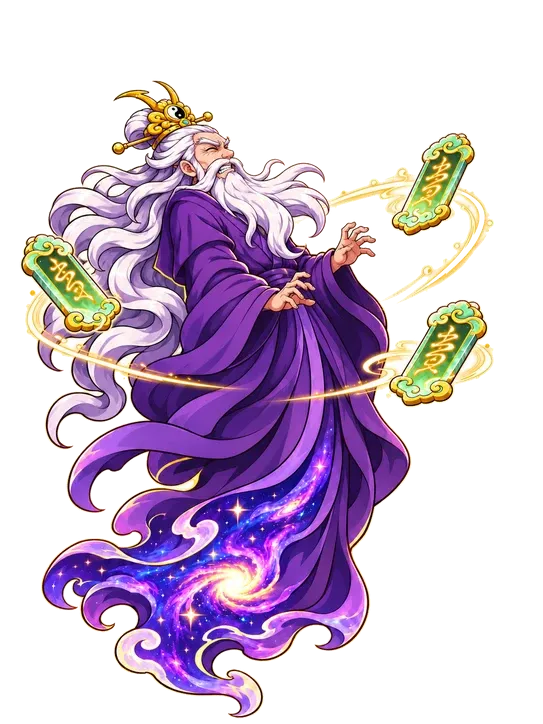
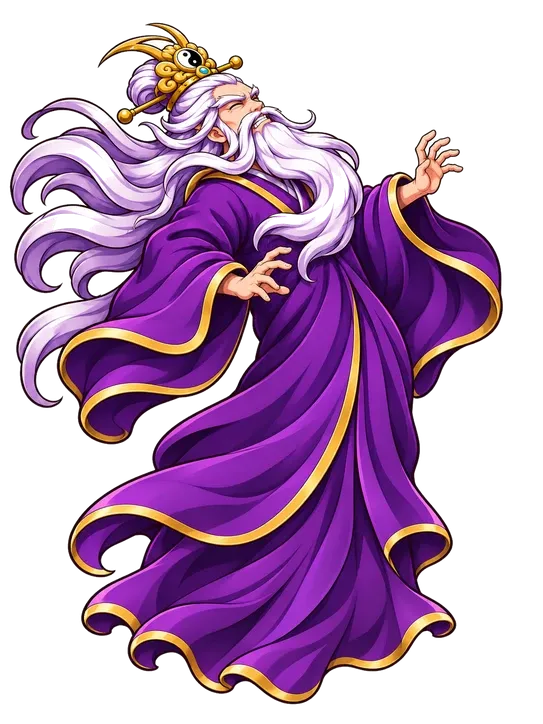
Phap Tuong thanh man mo dau; bo vuc rieng UR, chi con Thai Cuc Do (Hong Quan/du Tam Thanh) va Phan Tu Vuc; Hong Quan tach lop: ngan ha ve tay duoi chan + Ngoc Diep bay quanh

diff --git a/js/main.js b/js/main.js
@@ -13,7 +13,7 @@ const SLOTS_BACK = [[160, 310], [176, 192], [176, 428]];
 const SLOTS_FRONT = [[300, 262], [300, 390]];
 
 const $ = s => document.querySelector(s);
-const ui = $('#ui'), cv = $('#game'), ctx = cv.getContext('2d');
+const ui = $('#ui'), cv = $('#game'); let ctx = cv.getContext('2d');   // let: urLayers mượn tạm để vẽ lên canvas khác
 const rand = (a, b) => a + Math.random() * (b - a);
 const clamp = (v, a, b) => (v < a ? a : v > b ? b : v);
 const dist = (a, b) => Math.hypot(a.x - b.x, a.y - b.y);
@@ -939,7 +939,7 @@ function cast(u, w) {
   const sk = u.d[w];
   u.mp -= w === 'ult' ? 60 : 30;
   if (w === 'ult') u.cdU = 12; else u.cdS = 6;   // chiêu nhỏ 6 giây/lần
-  if (w === 'ult' && u.side === 'h' && isUR(u.id) && !u.clone && B) { castPhapTuong(u); if (u.id !== 'hongquan' && !(B.dom && B.dom.id === 'tamthanh') && (!B.dom || B.dom.id !== u.id)) domSet(u.id); }
+  if (w === 'ult' && u.side === 'h' && isUR(u.id) && !u.clone && B) { castPhapTuong(u); }   // vực riêng từng UR đã bỏ: chỉ còn vực nhóm (domUpdate)
   const sk_ = hasSkel(u.id);
   u.castDur = sk_ ? (w === 'ult' ? 1.0 : 0.6) : POSES[u.id] ? (w === 'ult' ? 0.8 : 0.4) : 0.35;   // dáng vẽ: giữ dáng tuyệt kỹ đủ lâu để thấy u.castT = u.castDur; u.castUlt = w === 'ult'; u.atkAnim = sk_ ? -1 : 0;
   const tgt = findTarget(u) || nearestEnemy(u, 400);
@@ -1895,7 +1895,7 @@ function poseFor(u) {
   }
   return null;
 }
-const HFIX = { kimgiac: 1.1, vanthu: 1.2, thaisu: 1.2, hoangphiho: 1.2, phohien: 1.25, thailaoquan: 1.22, giaochu: 1.0, nguyenthuy: 1.22, hongquan: 1.25 };   // UR concept A (Thánh Toạ) to hơn để uy   // bù dáng khom; tướng cưỡi thú cho cụm to hơn để người cưỡi không bị bé (chiều cao thân đo bằng tools/remeasure_h.py)
+const HFIX = { kimgiac: 1.1, vanthu: 1.2, thaisu: 1.2, hoangphiho: 1.2, phohien: 1.25, thailaoquan: 1.22, giaochu: 1.0, nguyenthuy: 1.22, hongquan: 1.0 };   // UR concept A (Thánh Toạ) to hơn để uy   // bù dáng khom; tướng cưỡi thú cho cụm to hơn để người cưỡi không bị bé (chiều cao thân đo bằng tools/remeasure_h.py)
 const _bright = new WeakMap();
 function brightImg(img) {   // bản sáng của ảnh dáng (tạo 1 lần): nháy trắng khi trúng đòn mà không dùng ctx.filter mỗi khung
   let c = _bright.get(img); if (c) return c;
@@ -1915,10 +1915,42 @@ function drawPose(u, name, t, h, alpha) {
   else if (name === 'ult') { sy = 1 + 0.012 * Math.sin(t * 9); }
   else if (name.startsWith('idle')) { sy = 1 + 0.014 * Math.sin(t * 2.6); sx = 1 - 0.006 * Math.sin(t * 2.6); }   // thở
   else if (name === 'hit') { const e = 1 - eo(Math.min(1, t)); ox = -11 * e; rot = -0.06 * e; sy = 1 - 0.03 * e; }
+  const LY = UR_LAYERS[u.id], hb = D.H * k * 0.5;   // hb: chiều cao thân trên màn hình
+  if (LY) urLayers(ctx, LY, 0, 0, hb, alpha, -1);
   ctx.save(); ctx.globalAlpha *= alpha; ctx.translate(ox, 0); ctx.rotate(rot); ctx.scale(sx, sy);
   ctx.drawImage(u.hurt > 0 ? brightImg(img) : img, -gx, -gy, img.width * k, img.height * k);
   ctx.filter = 'none'; ctx.restore();
+  if (LY) urLayers(ctx, LY, 0, 0, hb, alpha, 1);
   return true;
+}
+// UR tách lớp: nhân vật vẽ sạch + lớp vẽ tay chuyển động riêng (nền dưới chân chạy vòng, pháp bảo bay quanh người)
+//   ground: sheet art/sigfx (vòng lặp) đặt dưới chân; orbit: ảnh art/ultc bay vòng elip quanh thân (nửa sau vẽ sau lưng, mờ hơn)
+const UR_LAYERS = {
+  hongquan: { ground: { sheet: 'hq_galaxy', w: 1.3, y: 0.0, spd: 0.18, a: 0.95 }, orbit: { img: 'hq_tablet', n: 3, rx: 0.62, ry: 0.12, y: 0.62, size: 0.34, spd: 0.45 } },
+};
+function urLayers(g, L, x, y, hb, alpha, side) {   // side -1: lớp sau thân; 1: lớp trước thân
+  const T = performance.now() / 1000, c0 = ctx; ctx = g;   // sfxDraw/sigImg vẽ lên ctx toàn cục -> mượn tạm
+  try {
+    if (side < 0 && L.ground) { sfxImg(L.ground.sheet); sfxDraw(L.ground.sheet, T * L.ground.spd, x, y + hb * L.ground.y, hb * L.ground.w, { loop: 1, a: alpha * L.ground.a }); }
+    const O = L.orbit; if (O) { const im = ucImg(O.img); if (im) for (let i = 0; i < O.n; i++) {
+      const a = T * O.spd + i * TAU / O.n, front = Math.sin(a) > 0; if ((side > 0) !== front) continue;
+      const ox = Math.cos(a) * hb * O.rx, oy = y - hb * O.y + Math.sin(a) * hb * O.ry + Math.sin(T * 2 + i) * hb * 0.02, d = 0.82 + 0.18 * Math.sin(a), S = hb * O.size * d;
+      g.save(); g.globalAlpha = alpha * (front ? 1 : 0.55);
+      g.globalCompositeOperation = 'lighter'; g.globalAlpha *= 0.35; const gr = g.createRadialGradient(x + ox, oy, 0, x + ox, oy, S * 0.9); gr.addColorStop(0, 'rgba(255,220,140,0.9)'); gr.addColorStop(1, 'rgba(0,0,0,0)'); g.fillStyle = gr; g.fillRect(x + ox - S, oy - S, S * 2, S * 2);
+      g.globalCompositeOperation = 'source-over'; g.globalAlpha = alpha * (front ? 1 : 0.55); g.drawImage(im, x + ox - S * 0.5 * im.width / im.height, oy - S / 2, S * im.width / im.height, S); g.restore(); } }
+  } finally { ctx = c0; }
+}
+function urLayersDom(hero, id) {   // màn chi tiết: 2 canvas (sau / trước ảnh dáng) vẽ lớp chuyển động, neo đáy giữa như ảnh
+  const L = UR_LAYERS[id]; if (!L) return; const D = window.HPOSE && HPOSE[poseDir(id)]; const p1 = hero.querySelector('.p1'); if (!D || !p1) return;
+  const mk = (cls, before) => { const c = document.createElement('canvas'); c.className = 'url ' + cls; before ? hero.insertBefore(c, hero.firstChild) : hero.appendChild(c); return c; };
+  const back = mk('back', 1), front = mk('front'), W0 = 300, H0 = 400, dpr = Math.min(2, window.devicePixelRatio || 1);
+  for (const c of [back, front]) { c.width = W0 * dpr; c.height = H0 * 1.2 * dpr; }   // cao hơn khung 20%: nền chân tràn xuống dưới
+  const tick = () => { if (!back.isConnected) return; requestAnimationFrame(tick);
+    for (const [c, sd] of [[back, -1], [front, 1]]) { const g = c.getContext('2d'); g.setTransform(1, 0, 0, 1, 0, 0); g.clearRect(0, 0, c.width, c.height);
+      if (!p1.naturalWidth) continue;
+      const k = Math.min(W0 / p1.naturalWidth, H0 / p1.naturalHeight), x0 = (W0 - p1.naturalWidth * k) / 2, y0 = H0 - p1.naturalHeight * k;
+      g.setTransform(dpr, 0, 0, dpr, 0, 0); urLayers(g, L, x0 + D.gnd[0] * 0.5 * k, y0 + D.gnd[1] * 0.5 * k, D.H * 0.5 * k, 1, sd); } };
+  tick();
 }
 function drawRigUnit(u, h, alpha) {
   const pz = poseFor(u) || (window.HPOSE && HPOSE[u.id] && !hasSkel(u.id) ? ['idle1', 0] : null);   // tướng chỉ có tư thế (không rig): thắng/chết dùng dáng đứng
@@ -2990,23 +3022,22 @@ const URI = {}; function urImg(n) { let i = URI[n]; if (!i) { i = URI[n] = new I
 // (2) Pháp Tướng: pháp thân khổng lồ hiện sau sân, ra liền 4 đòn (6★: 5 đòn)
 function castPhapTuong(u) {
   urImg(u.id + '_phaptuong'); const n = (S.owned[u.id] || {}).star >= 6 ? 5 : 4;
-  B.pt = { id: u.id, t: 0, dur: 1.0 + n * 0.7 };
+  B.pt = { id: u.id, t: 0, dur: 1.2 };   // màn MỞ ĐẦU: pháp thân hiện ~1,2 giây rồi tan vào chiêu (không còn là màn thứ hai cuối chiêu)
   B.banner = { text: 'PHÁP TƯỚNG', sub: HEROES[u.id].name, t: 0, boss: true }; snd('gong'); snd('thunder', 0.8, 0.8);
-  for (let i = 0; i < n; i++) B.later.push({ t: 0.9 + i * 0.7, fn: () => {
-    if (!B || B.over || u.dead) return; B.shake = Math.max(B.shake, 0.7); B.flash = 0.18; sfx('boom');
+  for (let i = 0; i < n; i++) B.later.push({ t: 0.55 + i * 0.3, fn: () => {   // các đòn pháp tướng gộp thành nhịp sát thương trong chiêu (tổng giữ nguyên)
+    if (!B || B.over || u.dead) return; B.shake = Math.max(B.shake, 0.35);
     const L = aliveEnemies();
-    if (u.id === 'hongquan') { for (const e of L) { dealDmg(u, e, 1.0, 'ult'); if (!e.boss && !e.dead) e.stun = Math.max(e.stun || 0, 0.8); } for (const h of alliesAlive()) healU(h, maxHp(h) * 0.03, true);
-      B.fx.push({ k: 'ring', x: W * 0.6, y: H * 0.55, r: 520, color: '#d8a0ff', t: 0, dur: 0.7 }); fxBurst(W * 0.6, H * 0.45, 'lightning', 360); }
-    else if (u.id === 'nguyenthuy') { for (const e of L) { dealDmg(u, e, 0.8, 'ult'); if (!e.boss && !e.dead) e.stun = Math.max(e.stun || 0, 0.6); } B.fx.push({ k: 'ring', x: W * 0.6, y: H * 0.55, r: 480, color: '#bfe0ff', t: 0, dur: 0.6 }); fxBurst(W * 0.6, H * 0.45, 'lightning', 320); }
-    else if (u.id === 'giaochu') { for (const e of L.slice().sort(() => Math.random() - 0.5).slice(0, 5)) { fxBurst(e.x, e.y - 40, 'fire', 180); B.fx.push({ k: 'ring', x: e.x, y: e.y, r: 130, color: '#ff4a5a', t: 0, dur: 0.4 }); dealDmg(u, e, 1.3, 'ult'); } }
+    if (u.id === 'hongquan') { for (const e of L) { dealDmg(u, e, 1.0, 'ult'); if (!e.boss && !e.dead) e.stun = Math.max(e.stun || 0, 0.8); } for (const h of alliesAlive()) healU(h, maxHp(h) * 0.03, true); }
+    else if (u.id === 'nguyenthuy') { for (const e of L) { dealDmg(u, e, 0.8, 'ult'); if (!e.boss && !e.dead) e.stun = Math.max(e.stun || 0, 0.6); } }
+    else if (u.id === 'giaochu') { for (const e of L.slice().sort(() => Math.random() - 0.5).slice(0, 5)) { dealDmg(u, e, 1.3, 'ult'); } }
     else { const cx = W * 0.62, cy = H * 0.6; for (const e of L) { if (!e.boss) { e.x += (cx - e.x) * 0.25; e.y += (cy - e.y) * 0.25; } dealDmg(u, e, 0.55, 'ult'); }
-      B.fx.push({ k: 'ring', x: cx, y: cy, r: 420, color: '#9fffd0', t: 0, dur: 0.6 }); for (const h of alliesAlive()) healU(h, maxHp(h) * 0.04, true); }
+      for (const h of alliesAlive()) healU(h, maxHp(h) * 0.04, true); }
   } });
 }
 function drawPhapTuong() {   // vẽ ở không gian màn hình, sau nền, trước chiến trường
   const P = B.pt; if (!P) return; if (P.t >= P.dur) { B.pt = null; return; }
-  const im = urImg(P.id + '_phaptuong'); if (!im) return; const q = P.t / P.dur, a = Math.min(1, P.t / 0.5) * Math.min(1, (P.dur - P.t) / 0.6) * (B.fx.some(f => f.k === 'sigx' && f.ult) ? 0.2 : 1);   // biên đạo riêng đang chạy → pháp thân lùi làm nền
-  const h = H * (0.95 + 0.08 * q), w = h * im.width / im.height, y = H * 0.02 + (1 - Math.min(1, P.t / 0.6)) * 60;
+  const im = urImg(P.id + '_phaptuong'); if (!im) return; const q = P.t / P.dur, a = Math.min(1, P.t / 0.25) * Math.min(1, (P.dur - P.t) / 0.45);   // mở đầu: hiện nhanh, giữ ngắn, tan vào chiêu
+  const h = H * (0.95 + 0.12 * q), w = h * im.width / im.height, y = H * 0.02 + (1 - Math.min(1, P.t / 0.3)) * 60 - q * H * 0.04;   // tan: phình nhẹ + bay lên
   ctx.save(); ctx.globalAlpha = 0.6 * a; ctx.fillStyle = '#0a0412'; ctx.fillRect(0, 0, W, H); ctx.restore();   // sân tối lại để pháp thân nổi
   ctx.save(); ctx.globalCompositeOperation = 'lighter'; ctx.globalAlpha = 0.95 * a; ctx.drawImage(im, W * 0.58 - w / 2, y, w, h);
   ctx.globalAlpha = 0.25 * a * (0.6 + 0.4 * Math.sin(P.t * 9)); ctx.drawImage(im, W * 0.58 - w * 0.52, y - h * 0.02, w * 1.04, h * 1.04); ctx.restore();
@@ -3016,18 +3047,18 @@ function urOnField() { return B ? B.heroes.filter(h => !h.dead && !h.clone && is
 function domUpdate(dt) {
   const L = urOnField(), ids = L.map(h => h.id), D = B.dom;
   if (D) { D.t += dt; if (D.sw < 1) D.sw = Math.min(1, D.sw + dt / 0.7); }
-  let want = D && D.id;
-  if (ids.includes('hongquan') || TAM_THANH.every(x => ids.includes(x))) want = 'tamthanh';   // Hồng Quân một mình mở Tam Thanh Hợp Vực
-  else if (!want || want === 'tamthanh' || !ids.includes(want)) want = (B.cap && isUR(B.cap.id) && !B.cap.dead) ? B.cap.id : ids[0] || null;
+  const want = (ids.includes('hongquan') || TAM_THANH.every(x => ids.includes(x))) ? 'tamthanh'   // Hồng Quân một mình hoặc đủ Tam Thanh -> Thái Cực Đồ
+     : (PHAT_UR.length >= 3 && PHAT_UR.every(x => ids.includes(x))) ? 'phantu' : null;   // chỉ vực nhóm: đủ 3 UR cùng hệ
   if (want !== (D && D.id)) domSet(want);
   const R = B.dom && DOMAIN[B.dom.id]; if (R && R.regen) for (const h of alliesAlive()) h.hp = Math.min(maxHp(h), h.hp + maxHp(h) * R.regen * dt);
 }
 function domSet(id) {
   const old = B.dom && B.dom.id; B.dom = id ? { id, t: 0, sw: old ? 0 : 1, prev: old } : null;
-  if (id) { if (id !== 'tamthanh') urImg(id + '_domain'); else TAM_THANH.forEach(x => urImg(x + '_domain')); B.banner = { text: (DOMAIN[id] || {}).n || 'Thánh Vực', sub: (DOMAIN[id] || {}).d || '', t: 0 }; snd('whoosh', 0.8, 0.7); }
+  if (id) { domImgs(id); B.banner = { text: (DOMAIN[id] || {}).n || 'Thánh Vực', sub: (DOMAIN[id] || {}).d || '', t: 0 }; snd('whoosh', 0.8, 0.7); }
 }
 const domMod = k => { const D = B && B.dom && DOMAIN[B.dom.id]; return (D && D.m[k]) || 0; };
-function domImgs(id) { return id === 'tamthanh' ? TAM_THANH.map(x => urImg(x + '_domain')).filter(Boolean) : [urImg(id + '_domain')].filter(Boolean); }
+const DOM_ART = { tamthanh: 'thailaoquan_domain', phantu: 'phantu_domain' };   // Thái Cực Đồ / Phạn tự
+function domImgs(id) { return [urImg(DOM_ART[id] || id + '_domain')].filter(Boolean); }
 function drawDomainLayer(id, a, rot) {   // vực: ảnh tròn nhìn từ trên xuống, xoay rồi mới ép dẹt theo mặt sân -> không méo
   const x0 = GATE_X - 40, x1 = VIEW_R() + 40, cx = (x0 + x1) / 2, cy = (LANE_Y0 + LANE_Y1) / 2 + 10, S_ = (x1 - x0) * 0.92;
   const ims = domImgs(id);
@@ -3059,7 +3090,7 @@ function showThanhDien() {
     <div class="td-head"><img src="art/ui/ic_thanhan.webp" alt=""><div><b>${fmt(S.thanhan)} Thánh Ấn</b><small>Thánh nhân không xuất hiện ở Chiêu Mộ. Tích Thánh Ấn từ 81 Nạn (mỗi 9 nạn), phó bản Khó / Ác Mộng, boss chương 7–12 lần đầu, Boss Xâm Lược và nhiệm vụ tuần.</small></div></div>
     <div class="td-list">${L.map(id => { const h = HEROES[id], o = S.owned[id];
       return `<div class="td-card"><div class="td-art"><img src="${fullImg(id, 240)}" alt=""></div><div class="td-info">${rarTag(id)}<h3>${esc(h.name)}</h3><small>${esc(h.title)}</small>
-        <p><b>${esc((DOMAIN[id] || {}).n || '')}</b>: ${esc((DOMAIN[id] || {}).d || '')}</p>
+        ${DOM_GROUP(id) ? `<p><b>${esc(DOMAIN[DOM_GROUP(id)].n)}</b> (${esc(DOM_NEED[DOM_GROUP(id)])}): ${esc(DOMAIN[DOM_GROUP(id)].d)}</p>` : ''}
         ${o ? `<p>Đã nhận · ${starsHTML(o.star, maxStar(id))} · mảnh ${o.shard}</p><div class="hu-btns"><button class="btn gold" data-sh="${id}">Đổi 5 mảnh · ${5 * UR_COST.shard} Thánh Ấn</button></div>`
             : `<div class="hu-btns"><button class="btn red" data-ul="${id}" ${S.thanhan >= urCost(id) ? '' : 'disabled'}>Thỉnh Thánh · ${urCost(id)} Thánh Ấn</button></div>`}</div></div>`; }).join('')}</div></div>`;
   $('#bBack').onclick = showHome;
@@ -4036,7 +4067,7 @@ function showHeroDetail(id, tab) {
         <div class="hu-row"><div><b>Sao ${starsHTML(o.star, maxStar(id))}</b><small>Mảnh ${o.shard}/${starNeed || '–'} · Vạn năng ${S.univ} · Mỗi sao ×${(starMul(h.rar, Math.min(5, o.star + 1)) / starMul(h.rar, o.star)).toFixed(2)} chỉ số</small></div>
           <div class="hu-btns"><button class="btn red" id="bStar" ${o.star >= maxStar(id) ? 'disabled' : ''}>Tăng sao</button>${o.star >= maxStar(id) && o.shard > 0 ? `<button class="btn" id="bDis">Phân giải ${o.shard} mảnh</button>` : ''}</div></div>
         ${isUR(id) ? `<div class="hu-row ur ${o.star >= 6 ? 'on' : ''}"><div><b>Thành Thánh · 6★</b><small>${o.star >= 6 ? 'Đã Thành Thánh: trang phục Thánh nhân, tuyệt kỹ +50%, Pháp Tướng ra thêm một đòn' : 'Đạt 6★: mở trang phục Thánh nhân vẽ tay, tuyệt kỹ +50%, Pháp Tướng ra thêm một đòn'}</small></div>${o.star >= 6 ? `<div class="hu-btns"><button class="btn" id="bSkin">${skinOn(id) ? 'Mặc trang phục gốc' : 'Mặc trang phục Thánh nhân'}</button></div>` : ''}</div>
-          <div class="hu-row ur on"><div><b>Thánh nhân</b><small>Pháp Tướng khi tung tuyệt kỹ · Thánh Vực: ${esc((DOMAIN[id] || {}).n || '')} (${esc((DOMAIN[id] || {}).d || '')}) · Bất tử một lần mỗi trận · Miễn khống chế</small></div></div>` : ''}
+          <div class="hu-row ur on"><div><b>Thánh nhân</b><small>Pháp Tướng mở màn tuyệt kỹ · ${DOM_GROUP(id) ? `Vực ${esc(DOMAIN[DOM_GROUP(id)].n)} khi ${esc(DOM_NEED[DOM_GROUP(id)].toLowerCase())} · ` : ''}Bất tử một lần mỗi trận · Miễn khống chế</small></div></div>` : ''}
         ${h.rar === 'R' ? `<div class="hu-row ${o.star >= 5 ? 'on' : ''}"><div><b>Thức tỉnh · 5★</b><small>${o.star >= 5 ? 'Đã thức tỉnh: +15% máu, công, thủ, +10% tốc đánh' : 'Đạt 5 sao: +15% máu, công, thủ, +10% tốc đánh'}</small></div></div>` : ''}
         ${h.rar === 'SR' ? `<div class="hu-row ${o.star >= 5 ? 'on' : ''}"><div><b>Thức tỉnh · 5★</b><small>${o.star >= 5 ? 'Đã mở cảnh tuyệt kỹ toàn màn hình' : 'Đạt 5 sao để mở cảnh tuyệt kỹ toàn màn hình như tướng SSR'}</small></div></div>` : ''}
         <div class="hu-row"><div><b>Truyện Ký</b><small>${(o.lore || []).length}/3 chương đã nhận thưởng</small></div><div class="hu-btns"><button class="btn" id="bLore">Đọc</button></div></div></div>` : '<p class="hint">Chưa sở hữu, nhận qua Chiêu Mộ hoặc qua chương.</p>',
@@ -4053,7 +4084,7 @@ function showHeroDetail(id, tab) {
     <img class="hd5-bg" src="art/scene/${id}_bg.webp" onerror="this.onerror=null;this.src='art/scene/${FAC_BG[h.fac] || 'khuongtanha'}_bg.webp'" alt="">
     <div class="hd5-shade"></div>
     <div class="hd5-stage" id="hdStage" title="Bấm để xem ra đòn">
-      ${urx ? `<img class="hd5-dom" src="art/ur/${id === 'hongquan' ? 'thailaoquan' : id}_domain.webp" onerror="this.remove()" alt="">` : ''}
+      ${DOM_GROUP(id) ? `<img class="hd5-dom" src="art/ur/${DOM_ART[DOM_GROUP(id)]}.webp" onerror="this.remove()" alt="">` : ''}
       <div class="hd5-glow"></div>
       <img class="hd5-aura" src="art/ssrfx/aura_${id}.webp" onerror="this.remove()" alt="">
       ${TIER_RANK[h.tier] >= 4 ? `<div class="hd5-pts">${Array.from({ length: 14 }, (_, i) => `<i style="--x:${(i * 37) % 100}%;--d:${(i * 0.53) % 3.2}s;--s:${0.6 + (i % 4) * 0.25}"></i>`).join('')}</div>` : ''}
@@ -4075,7 +4106,8 @@ function showHeroDetail(id, tab) {
   { const ro = ui.querySelector('.hd5-roster .on'); if (ro) ro.scrollIntoView({ block: 'nearest', inline: 'center' }); }
   ui.querySelectorAll('[data-ro]').forEach(b => b.onclick = () => showHeroDetail(b.dataset.ro));
   ui.querySelectorAll('[data-sk]').forEach(b => b.onclick = () => { HD_SKSEL = b.dataset.sk; showHeroDetail(id); });
-  { let n = 0; const st2 = $('#hdStage'), pa = st2.querySelector('.pa'), hero = st2.querySelector('.hd5-hero');   // bấm: lần lẻ ra đòn, lần chẵn tung tuyệt kỹ
+  { let n = 0; const st2 = $('#hdStage'), pa = st2.querySelector('.pa'), hero = st2.querySelector('.hd5-hero');
+    if (hero && UR_LAYERS[id]) urLayersDom(hero, id);   // bấm: lần lẻ ra đòn, lần chẵn tung tuyệt kỹ
     st2.onclick = () => { if (hero.classList.contains('act')) return; const seq = n++ % 2 ? [['skill', 260], ['ult', 700]] : [['windup', 200], ['strike', 420]];
       hero.classList.add('act'); let t = 0; for (const [p, d] of seq) { setTimeout(() => { pa.src = `art/poses/${pd}/${p}.webp`; }, t); t += d; }
       if (seq[1][0] === 'ult') { st2.classList.add('ultfx'); snd('magic'); } else snd('whoosh');
@@ -4931,7 +4963,7 @@ loadArt().then(() => {
 // =====================================================================
 const SIG = {};
 // [cột, hàng, rộng ô, cao ô] — tools/make_sigfx.py in ra
-const SFX = /*SFX*/{"nmv_spikes":[3,2,256,256],"nmv_crack":[3,2,256,256],"nmv_roar":[3,2,256,256],"nmv_pillar":[4,2,192,256],"nt_ring":[3,2,256,256],"nt_spear":[3,2,256,256],"nt_wheel":[3,2,256,256],"nt_burst":[3,2,256,256],"nt_trail":[4,2,192,256],"tt_slash":[3,2,256,256],"tt_cuts":[3,2,256,256],"tt_land":[3,2,256,256],"tt_array":[4,2,192,256],"tt_final":[4,2,192,256]}/*SFX*/;
+const SFX = /*SFX*/{"nmv_spikes":[3,2,256,256],"nmv_crack":[3,2,256,256],"nmv_roar":[3,2,256,256],"nmv_pillar":[4,2,192,256],"nt_ring":[3,2,256,256],"nt_spear":[3,2,256,256],"nt_wheel":[3,2,256,256],"nt_burst":[3,2,256,256],"nt_trail":[4,2,192,256],"hq_galaxy":[4,2,192,256],"tt_slash":[3,2,256,256],"tt_cuts":[3,2,256,256],"tt_land":[3,2,256,256],"tt_array":[4,2,192,256],"tt_final":[4,2,192,256]}/*SFX*/;
 const SGI = {};
 function sfxImg(n) { let i = SGI[n]; if (!i) { i = SGI[n] = new Image(); i.src = 'art/sigfx/' + n + '.webp'; } return i.complete && i.naturalWidth ? i : null; }
 function sigPreload(id) { const S = SIG[id]; if (S) { (S.sheets || []).forEach(sfxImg); (S.need || []).forEach(ucImg); } }   // gọi khi tướng ra trận

diff --git a/art/poses/hmeta.js b/art/poses/hmeta.js
@@ -1,1 +1,1 @@
-window.HPOSE = {"loichantu": {"H": 1201.8, "gnd": [660, 1395]}, "thohanhton": {"H": 1196.0, "gnd": [512, 1387]}, "thaiatchannhan": {"H": 1185.3, "gnd": [573, 1335]}, "thancongbao": {"H": 1182.4, "gnd": [657, 1321]}, "longnu": {"H": 1303.7, "gnd": [567, 1398]}, "kimgiac": {"H": 1298.8, "gnd": [578, 1384]}, "tieubachlong": {"H": 1265.8, "gnd": [517, 1412]}, "thaibachkimtinh": {"H": 1135.9, "gnd": [604, 1321]}, "culinhthan": {"H": 1254.2, "gnd": [575, 1394]}, "hoangphongquai": {"H": 1087.4, "gnd": [479, 1364]}, "khuongtanha": {"H": 1377.4, "gnd": [570, 1429]}, "trieucongminh": {"H": 1368.7, "gnd": [572, 1420]}, "bachcot": {"H": 1371.6, "gnd": [574, 1423]}, "bodetosu": {"H": 1372.5, "gnd": [563, 1426]}, "tranguyentu": {"H": 1327.9, "gnd": [551, 1403]}, "hoangphiho": {"H": 1167.9, "gnd": [519, 1358]}, "dienmau": {"H": 1308.5, "gnd": [543, 1398]}, "thanhnguutinh": {"H": 1287.2, "gnd": [502, 1387]}, "longvuong": {"H": 1262.0, "gnd": [591, 1418]}, "dangthienngoc": {"H": 1246.5, "gnd": [535, 1378]}, "kimtra": {"H": 1344.4, "gnd": [540, 1409]}, "hachhung": {"H": 1286.2, "gnd": [533, 1387]}, "thodia": {"H": 1212.5, "gnd": [479, 1341]}, "giaochu": {"H": 1034.0, "gnd": [507, 1437]}, "khongtuyen": {"H": 1276.5, "gnd": [568, 1423]}, "nhiendang": {"H": 1207.6, "gnd": [467, 1367]}, "thaisu": {"H": 1356.1, "gnd": [556, 1418]}, "hoangmi": {"H": 1227.0, "gnd": [528, 1367]}, "vanthu": {"H": 1276.5, "gnd": [538, 1395]}, "quynhtieu": {"H": 1240.6, "gnd": [517, 1367]}, "hoangthienhoa": {"H": 1375.5, "gnd": [555, 1432]}, "viho": {"H": 1386.1, "gnd": [563, 1435]}, "thachco": {"H": 1165.9, "gnd": [445, 1347]}, "giaochu_s2": {"H": 1287.2, "gnd": [570, 1423]}, "thailaoquan_s2": {"H": 1384.2, "gnd": [556, 1434]}, "thailaoquan": {"H": 1107.7, "gnd": [533, 1439]}, "hongquan": {"H": 1165.0, "gnd": [429, 1437]}, "nguyenthuy": {"H": 1303.7, "gnd": [551, 1423]}, "ngochoang": {"H": 1327.9, "gnd": [519, 1417]}, "dilac": {"H": 1022.4, "gnd": [516, 1278]}, "quangthanh": {"H": 1329.9, "gnd": [502, 1423]}, "kimlinh": {"H": 1304.6, "gnd": [510, 1412]}, "chanvu": {"H": 1107.7, "gnd": [557, 1338]}, "vuongmau": {"H": 1330.8, "gnd": [502, 1417]}, "phohien": {"H": 1318.2, "gnd": [465, 1418]}, "daibang": {"H": 1179.5, "gnd": [489, 1361]}, "ngocdinh": {"H": 1336.7, "gnd": [556, 1423]}, "hoangbao": {"H": 1303.7, "gnd": [471, 1429]}, "bachnhan": {"H": 1330.8, "gnd": [550, 1423]}, "hattu": {"H": 1327.0, "gnd": [494, 1401]}, "moctra": {"H": 1167.9, "gnd": [553, 1344]}, "nganggiac": {"H": 1266.8, "gnd": [563, 1384]}, "loicong": {"H": 1243.5, "gnd": [529, 1375]}, "ngoctho": {"H": 1308.5, "gnd": [528, 1415]}, "maonhat": {"H": 1223.2, "gnd": [535, 1360]}, "linhcam": {"H": 1172.7, "gnd": [642, 1361]}, "ngokhong": {"H": 1359.9, "gnd": [580, 1400]}, "batgioi": {"H": 1476.0, "gnd": [615, 1421]}, "nata": {"H": 1447.8, "gnd": [560, 1418]}, "ngumavuong": {"H": 1306.8, "gnd": [620, 1410]}, "honghainhi": {"H": 1260.4, "gnd": [560, 1405]}, "quanam": {"H": 1144.3, "gnd": [560, 1330]}, "datky": {"H": 1354.9, "gnd": [560, 1415]}, "duongtang": {"H": 1434.5, "gnd": [570, 1410]}, "duongtien": {"H": 1069.7, "gnd": [520, 1295]}, "vantieu": {"H": 1401.3, "gnd": [560, 1415]}, "satang": {"H": 1417.9, "gnd": [560, 1415]}, "thietphien": {"H": 1369.8, "gnd": [560, 1416]}, "litinh": {"H": 1353.2, "gnd": [560, 1416]}, "hangnga": {"H": 1343.3, "gnd": [560, 1415]}};
+window.HPOSE = {"loichantu": {"H": 1201.8, "gnd": [660, 1395]}, "thohanhton": {"H": 1196.0, "gnd": [512, 1387]}, "thaiatchannhan": {"H": 1185.3, "gnd": [573, 1335]}, "thancongbao": {"H": 1182.4, "gnd": [657, 1321]}, "longnu": {"H": 1303.7, "gnd": [567, 1398]}, "kimgiac": {"H": 1298.8, "gnd": [578, 1384]}, "tieubachlong": {"H": 1265.8, "gnd": [517, 1412]}, "thaibachkimtinh": {"H": 1135.9, "gnd": [604, 1321]}, "culinhthan": {"H": 1254.2, "gnd": [575, 1394]}, "hoangphongquai": {"H": 1087.4, "gnd": [479, 1364]}, "khuongtanha": {"H": 1377.4, "gnd": [570, 1429]}, "trieucongminh": {"H": 1368.7, "gnd": [572, 1420]}, "bachcot": {"H": 1371.6, "gnd": [574, 1423]}, "bodetosu": {"H": 1372.5, "gnd": [563, 1426]}, "tranguyentu": {"H": 1327.9, "gnd": [551, 1403]}, "hoangphiho": {"H": 1167.9, "gnd": [519, 1358]}, "dienmau": {"H": 1308.5, "gnd": [543, 1398]}, "thanhnguutinh": {"H": 1287.2, "gnd": [502, 1387]}, "longvuong": {"H": 1262.0, "gnd": [591, 1418]}, "dangthienngoc": {"H": 1246.5, "gnd": [535, 1378]}, "kimtra": {"H": 1344.4, "gnd": [540, 1409]}, "hachhung": {"H": 1286.2, "gnd": [533, 1387]}, "thodia": {"H": 1212.5, "gnd": [479, 1341]}, "giaochu": {"H": 1034.0, "gnd": [507, 1437]}, "khongtuyen": {"H": 1276.5, "gnd": [568, 1423]}, "nhiendang": {"H": 1207.6, "gnd": [467, 1367]}, "thaisu": {"H": 1356.1, "gnd": [556, 1418]}, "hoangmi": {"H": 1227.0, "gnd": [528, 1367]}, "vanthu": {"H": 1276.5, "gnd": [538, 1395]}, "quynhtieu": {"H": 1240.6, "gnd": [517, 1367]}, "hoangthienhoa": {"H": 1375.5, "gnd": [555, 1432]}, "viho": {"H": 1386.1, "gnd": [563, 1435]}, "thachco": {"H": 1165.9, "gnd": [445, 1347]}, "giaochu_s2": {"H": 1287.2, "gnd": [570, 1423]}, "thailaoquan_s2": {"H": 1384.2, "gnd": [556, 1434]}, "thailaoquan": {"H": 1107.7, "gnd": [533, 1439]}, "hongquan": {"H": 1275.5, "gnd": [522, 1412]}, "nguyenthuy": {"H": 1303.7, "gnd": [551, 1423]}, "ngochoang": {"H": 1327.9, "gnd": [519, 1417]}, "dilac": {"H": 1022.4, "gnd": [516, 1278]}, "quangthanh": {"H": 1329.9, "gnd": [502, 1423]}, "kimlinh": {"H": 1304.6, "gnd": [510, 1412]}, "chanvu": {"H": 1107.7, "gnd": [557, 1338]}, "vuongmau": {"H": 1330.8, "gnd": [502, 1417]}, "phohien": {"H": 1318.2, "gnd": [465, 1418]}, "daibang": {"H": 1179.5, "gnd": [489, 1361]}, "ngocdinh": {"H": 1336.7, "gnd": [556, 1423]}, "hoangbao": {"H": 1303.7, "gnd": [471, 1429]}, "bachnhan": {"H": 1330.8, "gnd": [550, 1423]}, "hattu": {"H": 1327.0, "gnd": [494, 1401]}, "moctra": {"H": 1167.9, "gnd": [553, 1344]}, "nganggiac": {"H": 1266.8, "gnd": [563, 1384]}, "loicong": {"H": 1243.5, "gnd": [529, 1375]}, "ngoctho": {"H": 1308.5, "gnd": [528, 1415]}, "maonhat": {"H": 1223.2, "gnd": [535, 1360]}, "linhcam": {"H": 1172.7, "gnd": [642, 1361]}, "ngokhong": {"H": 1359.9, "gnd": [580, 1400]}, "batgioi": {"H": 1476.0, "gnd": [615, 1421]}, "nata": {"H": 1447.8, "gnd": [560, 1418]}, "ngumavuong": {"H": 1306.8, "gnd": [620, 1410]}, "honghainhi": {"H": 1260.4, "gnd": [560, 1405]}, "quanam": {"H": 1144.3, "gnd": [560, 1330]}, "datky": {"H": 1354.9, "gnd": [560, 1415]}, "duongtang": {"H": 1434.5, "gnd": [570, 1410]}, "duongtien": {"H": 1069.7, "gnd": [520, 1295]}, "vantieu": {"H": 1401.3, "gnd": [560, 1415]}, "satang": {"H": 1417.9, "gnd": [560, 1415]}, "thietphien": {"H": 1369.8, "gnd": [560, 1416]}, "litinh": {"H": 1353.2, "gnd": [560, 1416]}, "hangnga": {"H": 1343.3, "gnd": [560, 1415]}};

diff --git a/index.html b/index.html
@@ -14,26 +14,26 @@
 <link rel="preconnect" href="https://fonts.googleapis.com">
 <link rel="preconnect" href="https://fonts.gstatic.com" crossorigin>
 <link href="https://fonts.googleapis.com/css2?family=Baloo+2:wght@500;600;700;800&family=Dancing+Script:wght@700&display=swap" rel="stylesheet">
-<link rel="stylesheet" href="css/style.css?v=1795444581">
-<link rel="stylesheet" href="css/themes.css?v=1795444581">
+<link rel="stylesheet" href="css/style.css?v=1795446811">
+<link rel="stylesheet" href="css/themes.css?v=1795446811">
 </head>
 <body>
 <div id="app">
   <canvas id="game"></canvas>
   <div id="ui"></div>
 </div>
-<script src="js/data.js?v=1795444581"></script><script src="art/enemies/meta.js?v=1795444581"></script><script src="art/ssrfx/aura_c.js?v=1795444581"></script>
-  <script src="art/poses/hmeta.js?v=1795444581"></script>
-<script src="js/art.js?v=1795444581"></script>
-<script src="art/anim/manifest.js?v=1795444581"></script>
-<script src="js/rig.js?v=1795444581"></script>
-<script src="art/rig/all.js?v=1795444581"></script>
-<script src="js/layered.js?v=1795444581"></script>
-<script src="art/mesh/index.js?v=1795444581"></script>
-<script src="js/meshrig.js?v=1795444581"></script>
-<script src="art/skel/index.js?v=1795444581"></script>
-<script src="js/skel.js?v=1795444581"></script>
-<script src="js/vfx.js?v=1795444581"></script>
-<script src="js/main.js?v=1795444581"></script>
+<script src="js/data.js?v=1795446811"></script><script src="art/enemies/meta.js?v=1795446811"></script><script src="art/ssrfx/aura_c.js?v=1795446811"></script>
+  <script src="art/poses/hmeta.js?v=1795446811"></script>
+<script src="js/art.js?v=1795446811"></script>
+<script src="art/anim/manifest.js?v=1795446811"></script>
+<script src="js/rig.js?v=1795446811"></script>
+<script src="art/rig/all.js?v=1795446811"></script>
+<script src="js/layered.js?v=1795446811"></script>
+<script src="art/mesh/index.js?v=1795446811"></script>
+<script src="js/meshrig.js?v=1795446811"></script>
+<script src="art/skel/index.js?v=1795446811"></script>
+<script src="js/skel.js?v=1795446811"></script>
+<script src="js/vfx.js?v=1795446811"></script>
+<script src="js/main.js?v=1795446811"></script>
 </body>
 </html>

diff --git a/js/data.js b/js/data.js
@@ -1132,6 +1132,14 @@ const DOMAIN = {
 })();
 
 // Tướng chưa vẽ xong (thiếu dáng) -> ẩn khỏi chiêu mộ, danh sách, Thánh Điện cho tới khi có hình. Cập nhật bằng tools/patch_hud4.py
+// ===== VỰC: bỏ vực riêng từng UR. Chỉ còn vực NHÓM khi đủ 3 UR cùng hệ trên sân =====
+//   đủ Tam Thanh -> Thái Cực Đồ; đủ 3 UR Phật giáo (Tiếp Dẫn, Chuẩn Đề, Như Lai) -> Phạn Tự Vực
+const PHAT_UR = ['tiepdan', 'chuande', 'nhulai'];   // Tiếp Dẫn, Chuẩn Đề, Như Lai (theo Bảng Thần Tiên; chưa thêm vào game)
+DOMAIN.tamthanh.n = 'Thái Cực Đồ';
+DOMAIN.phantu = { n: 'Phạn Tự Vực', d: 'Kim văn Phạn tự trấn sân: +20% thủ, nhận ít hơn 15% sát thương, hồi 1,5% máu mỗi giây, +15% công cả đội', m: { defPct: 0.2, kc: 0.15, atkPct: 0.15 }, regen: 0.015, col: '#ffd76a' };
+for (const k of ['giaochu', 'thailaoquan', 'nguyenthuy']) delete DOMAIN[k];
+const DOM_GROUP = id => (TAM_THANH.includes(id) || id === 'hongquan') ? 'tamthanh' : PHAT_UR.includes(id) ? 'phantu' : null;
+const DOM_NEED = { tamthanh: 'Có Hồng Quân, hoặc đủ Tam Thanh (Thái Thượng, Nguyên Thuỷ, Thông Thiên) trên sân', phantu: 'Đủ Tiếp Dẫn, Chuẩn Đề, Như Lai trên sân' };
 const NO_ART = new Set(["kimmaohong"]);
 (function hideNoArt() {
   for (const L of [SSR_POOL, SR_POOL, R_POOL]) for (let i = L.length - 1; i >= 0; i--) if (NO_ART.has(L[i])) L.splice(i, 1);

diff --git a/css/style.css b/css/style.css
@@ -1255,3 +1255,7 @@ html, body { height: 100dvh; min-height: 100dvh; background-color: #1f140e; }
   text-shadow: 0 1px 0 #2a0a3a, 0 0 3px #000, 0 0 6px rgba(200,120,255,.9) !important; animation: hcGoldT 3s ease-in-out infinite !important; }
 @keyframes hcGoldT { 0%, 100% { color: #ffe9a0; } 50% { color: #fff; } }
 .hc2.t-URP .hc2-rar::after { color: #ffd76a !important; background: none !important; -webkit-background-clip: border-box !important; background-clip: border-box !important; filter: none !important; text-shadow: 0 1px 0 #2a0a3a, 0 0 4px rgba(200,120,255,.9); }
+
+/* UR tách lớp: canvas lớp chuyển động sau / trước ảnh dáng (màn chi tiết) */
+.hd5-hero canvas.url { position: absolute; left: 0; top: 0; width: 100%; height: 120%; pointer-events: none; }
+.hd5-hero.off canvas.url { display: none; }
